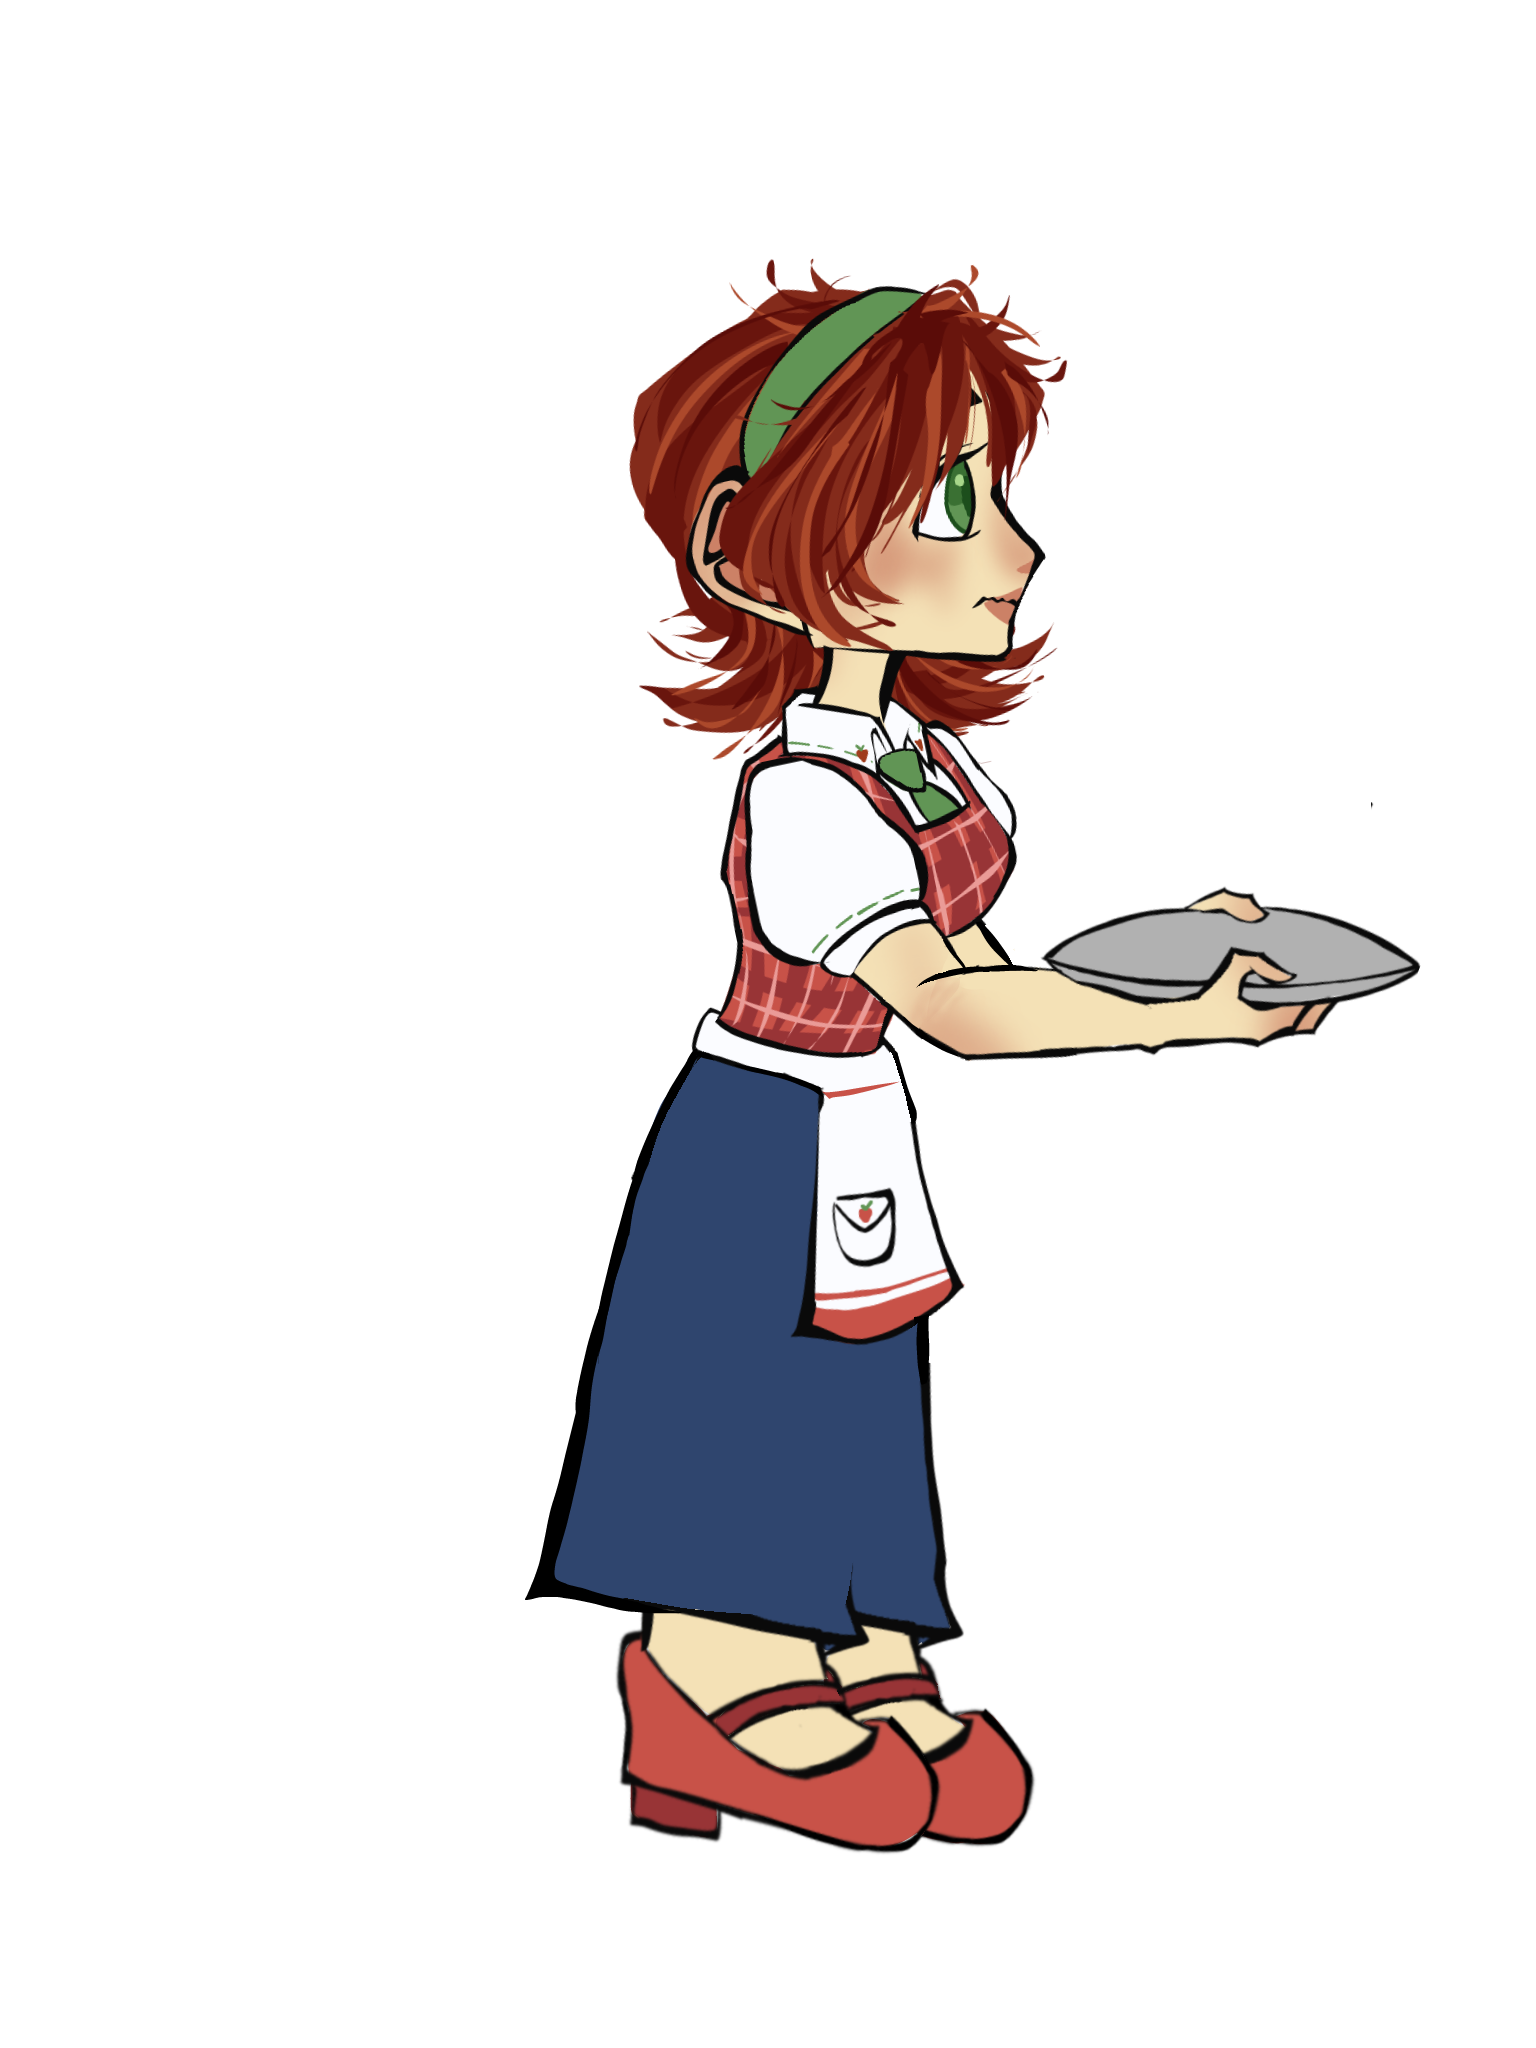
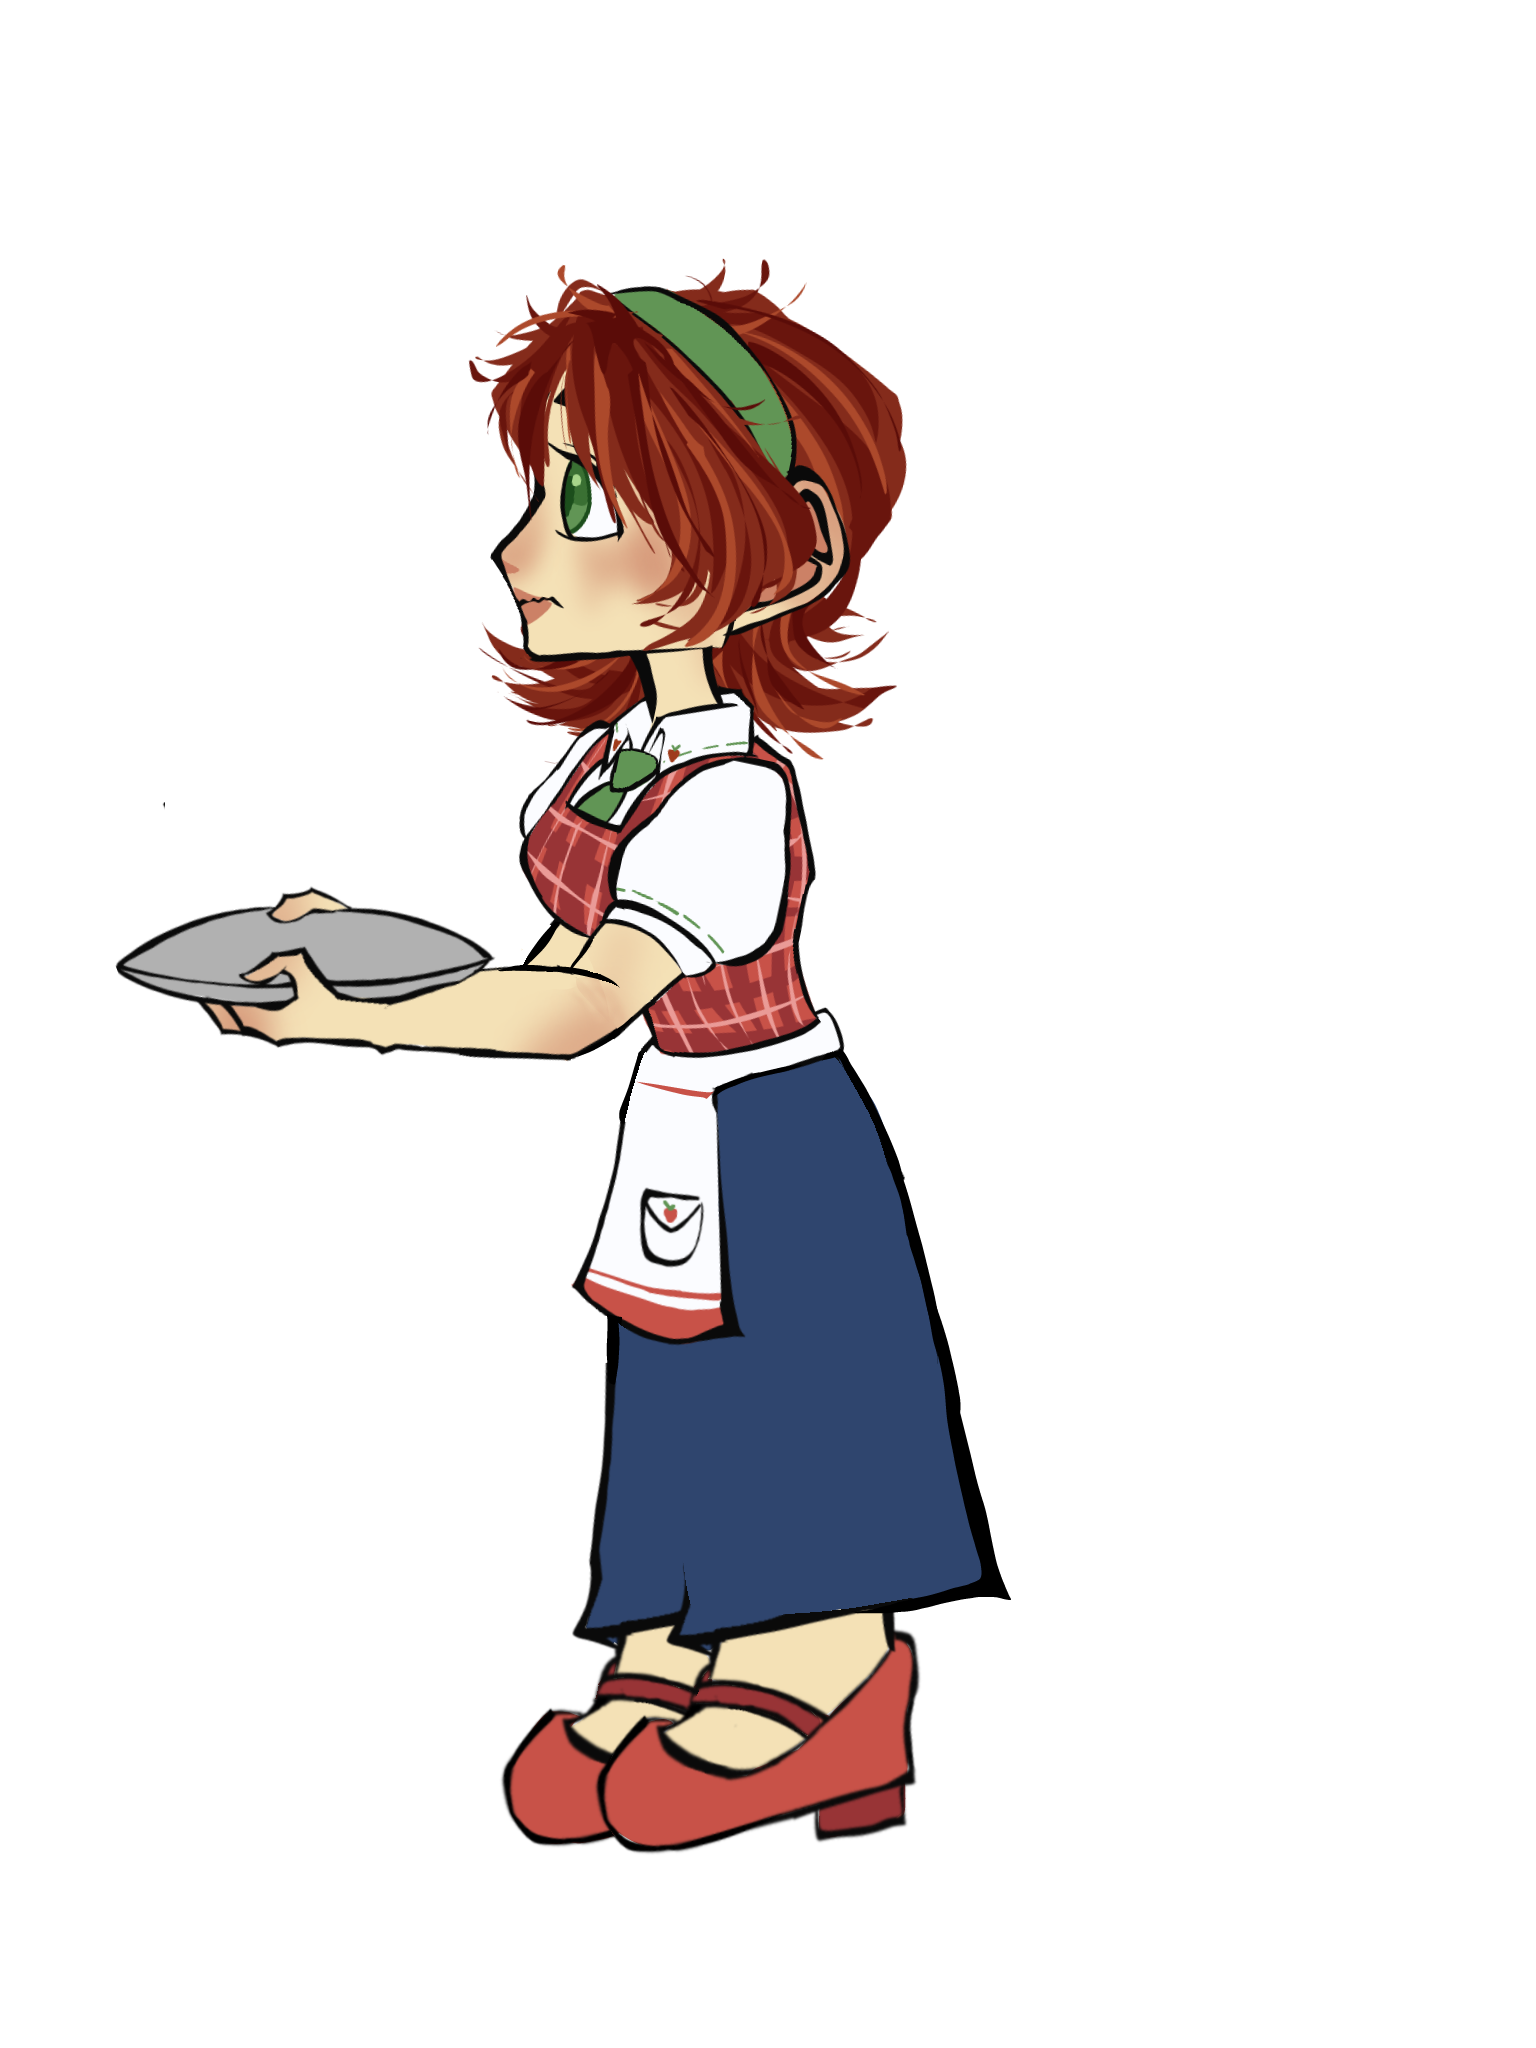
Add files via upload

Changed region(s): [[0.0625, 0.125, 0.9375, 0.9062]]

diff --git a/tp1/tp1.js b/tp1/tp1.js
@@ -7,9 +7,18 @@ let spriteCam = 0;
 let x = 25;
 let vel = 0.05;
 
+//variables para la escena 0
+let areaX1 = 300;
+let areaY1 = 260;
+let pos1 = false;
+
+let areaX2 = 200;
+let areaY2 = 260;
+let pos2 = false;
+
 let estado = 0;
 
-async function setup() {
+function setup() {
   createCanvas(800, 800);
 
   //carga de imagenes
@@ -27,26 +36,85 @@ async function setup() {
 function draw() {
   background(220);
 
-//movimiento de x
+  //movimiento de x
   x += 5;
 
-  if (x>width+30) {
-    x = -25;
-    if (spriteFon < 3) {
-      spriteFon++;
-    } else {
-      spriteFon = 0;
-    }
-  }
-  
-  image(fondo[spriteFon], 0, 0, width, 700);
+  if (estado===0) {
 
-  caminar(); //llamar funcion para que se haga el cambio
-  image(caminata[spriteCam], x, 50, 500, 700);
+    image(fondo[spriteFon], 0, 0, width, 700);
+    image(caminata[5], 450, 30, 500, 700);
+
+    //rectangulos que marcan a donde arrastrar
+    rect(510, 300, 30, 60);
+    rect(565, 300, 30, 60);
+
+    if (pos1) {
+      areaX1 = mouseX - 25;
+      areaY1 = mouseY - 30;
+    } else if (pos2) {
+      areaX2 = mouseX - 15;
+      areaY2 = mouseY - 30;
+    } else {
+    }
+    
+    fill(252, 3, 3);
+    rect(areaX1, areaY1, 30, 60);
+    fill(252, 3, 3);
+    rect(areaX2, areaY2, 30, 60);
+    
+    //la distancia ayuda a que no sea en los pixeles exactos
+    let dist1 = dist(areaX1, areaY1, 510, 300);
+    let dist2 = dist(areaX2, areaY2, 565, 300);
+
+    if (dist1 < 15 && dist2 < 15 && !pos1 && !pos2) { // si cumple el lugar y si se solto el bloque
+      estado=1;
+      //1
+      areaX1 = 510;
+      areaY1 = 300;
+      //2
+      areaX2 = 565;
+      areaY2 = 300;
+      //para caminata
+    } else {
+    }
+    
+  } else if (estado===1) {
+    if (x>width+30) {
+      x = -25;
+      if (spriteFon < 2) {
+        spriteFon++;
+      } else {
+        spriteFon = 0;
+      }
+    }
+    image(fondo[spriteFon], 0, 0, width, 700);
+    caminar(); //llamar funcion para que se haga el cambio
+    image(caminata[spriteCam], x, 30, 500, 700);
+  }
 }
 
 function caminar() {
-  
+
   //floor redondea el resultado de frameCount y el modulo lo divide por la cantidad de sprites
   spriteCam = floor(frameCount/5)%5;
+}
+
+function mousePressed() {
+  if (pos1) {
+    pos1 = false; //soltar
+  } else {
+    //area definida
+    if (mouseX > areaX1 && mouseX < areaX1 + 30 && mouseY > areaY1 && mouseY < areaY1 + 60) {
+      pos1 = true;
+    }
+  }
+
+  if (pos2) {
+    pos2 = false; //soltar
+  } else {
+    //area definida
+    if (mouseX > areaX2 && mouseX < areaX2 + 30 && mouseY > areaY2 && mouseY < areaY2 + 60) {
+      pos2 = true;
+    }
+  }
 }
